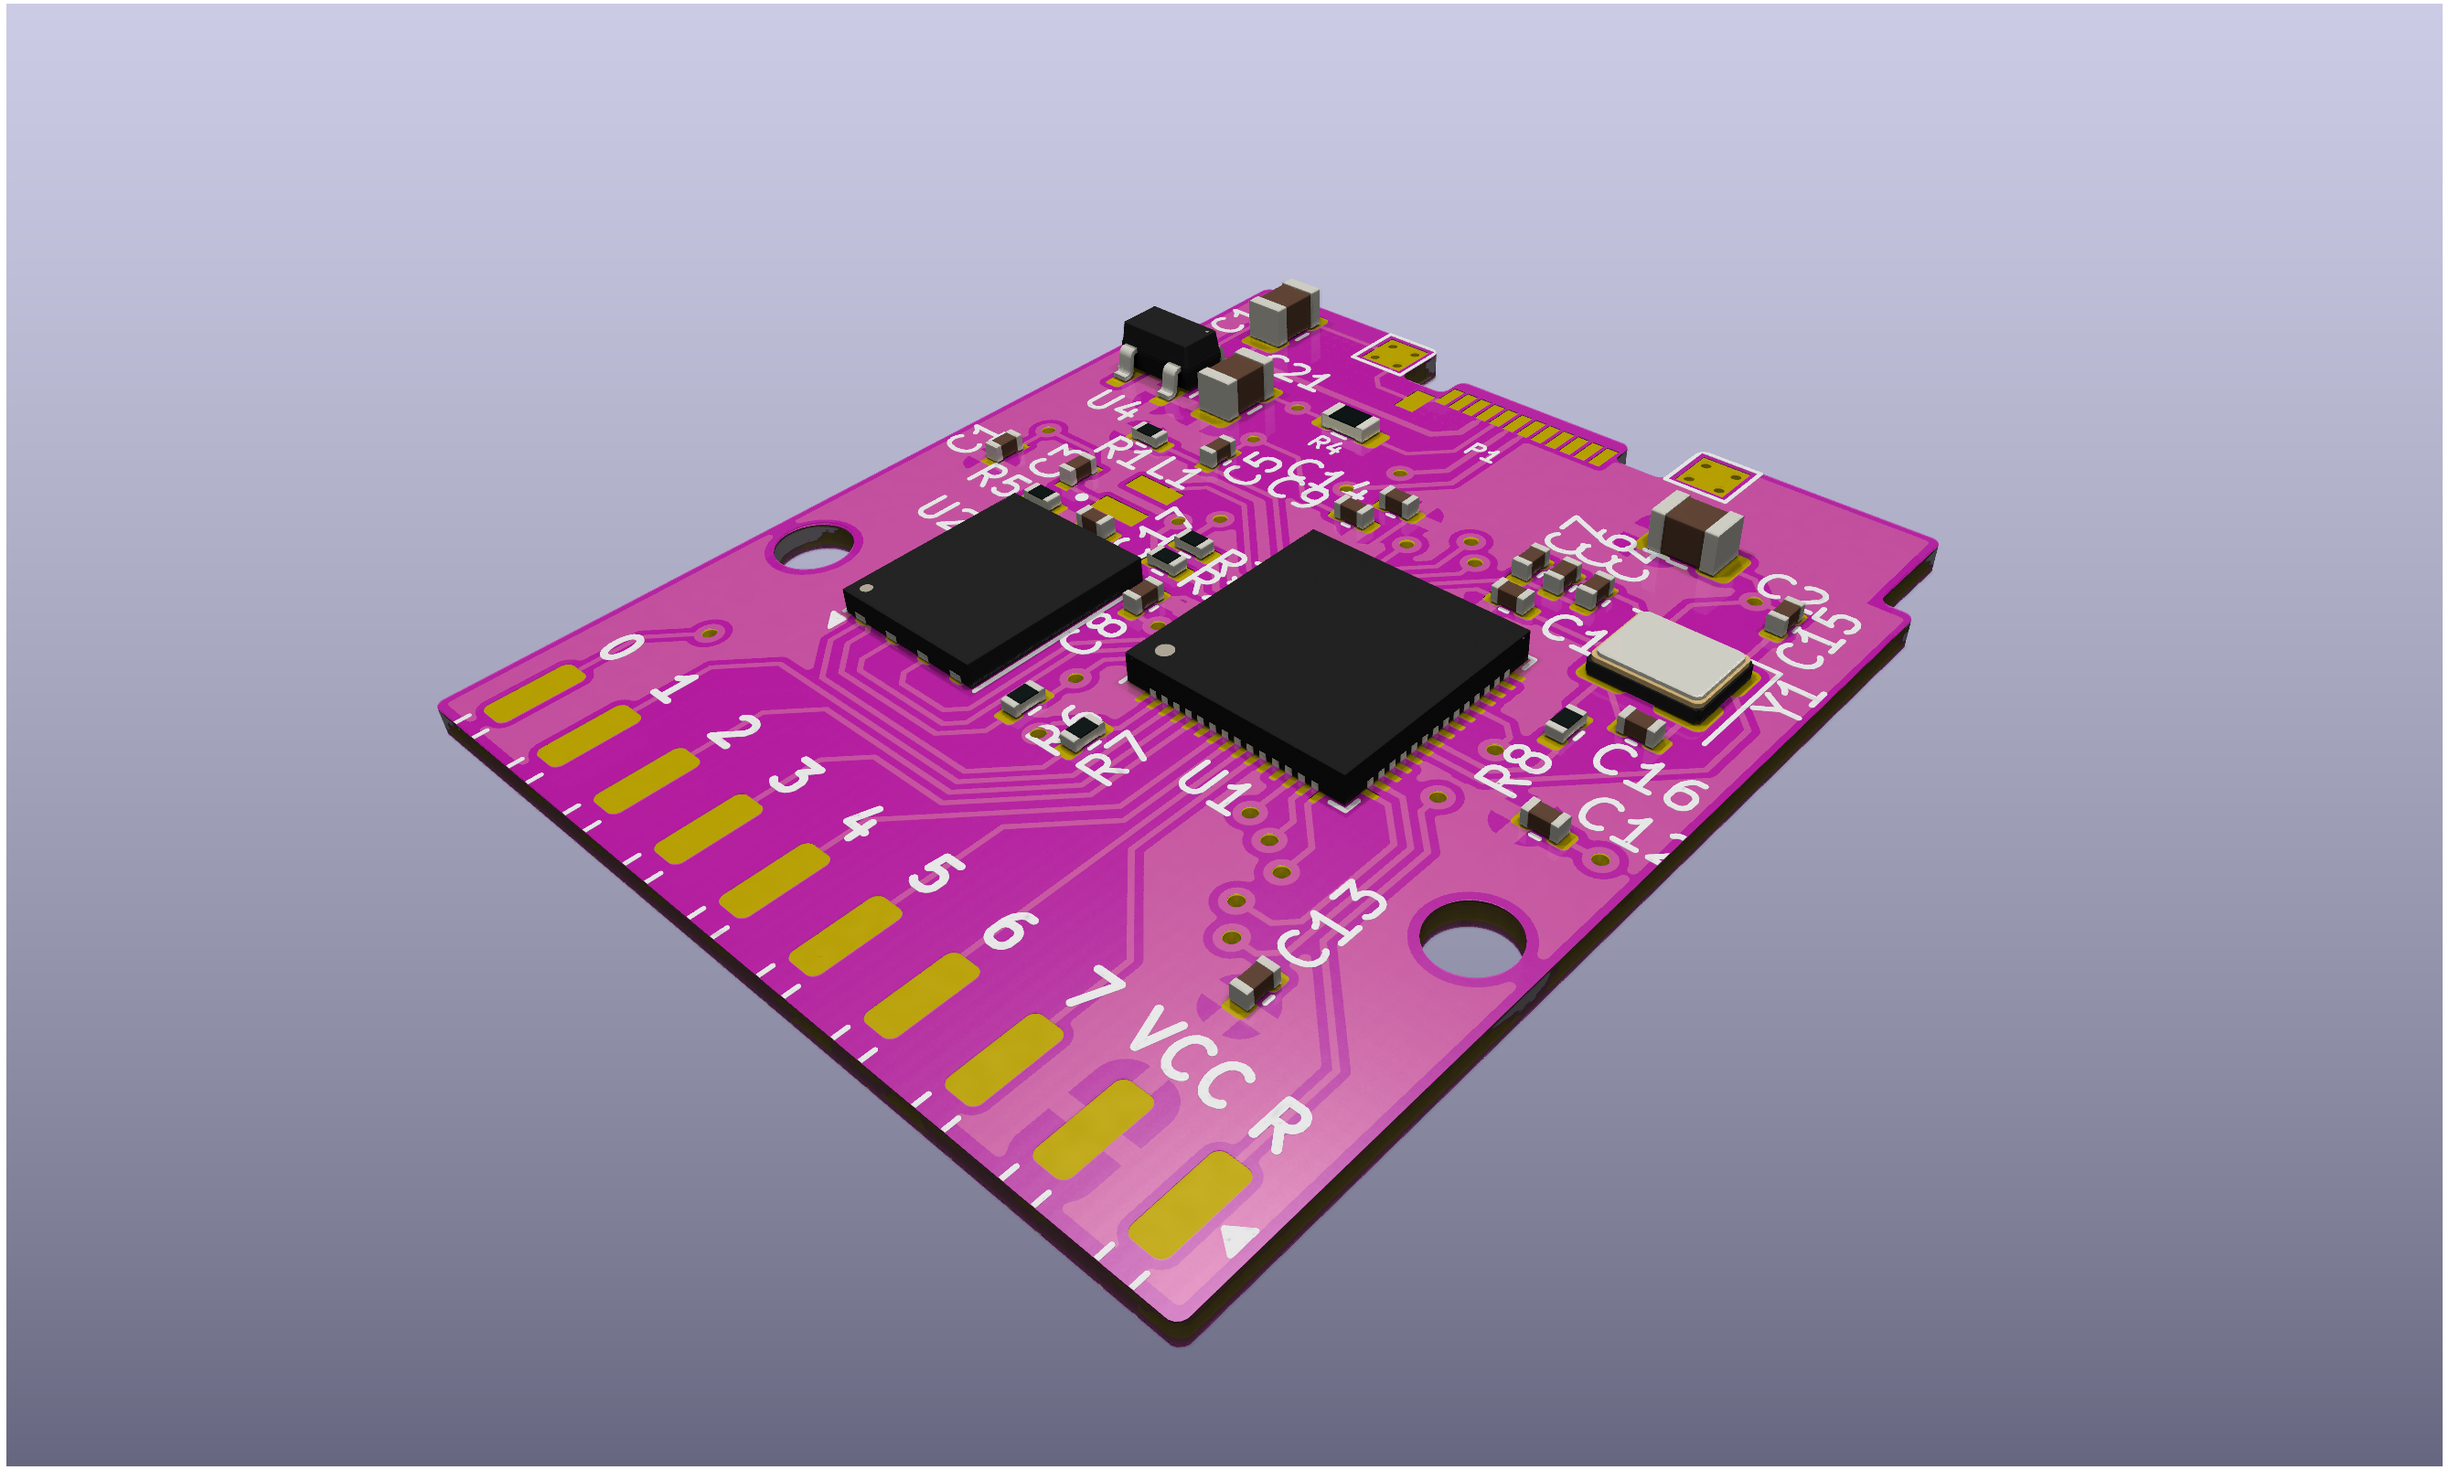
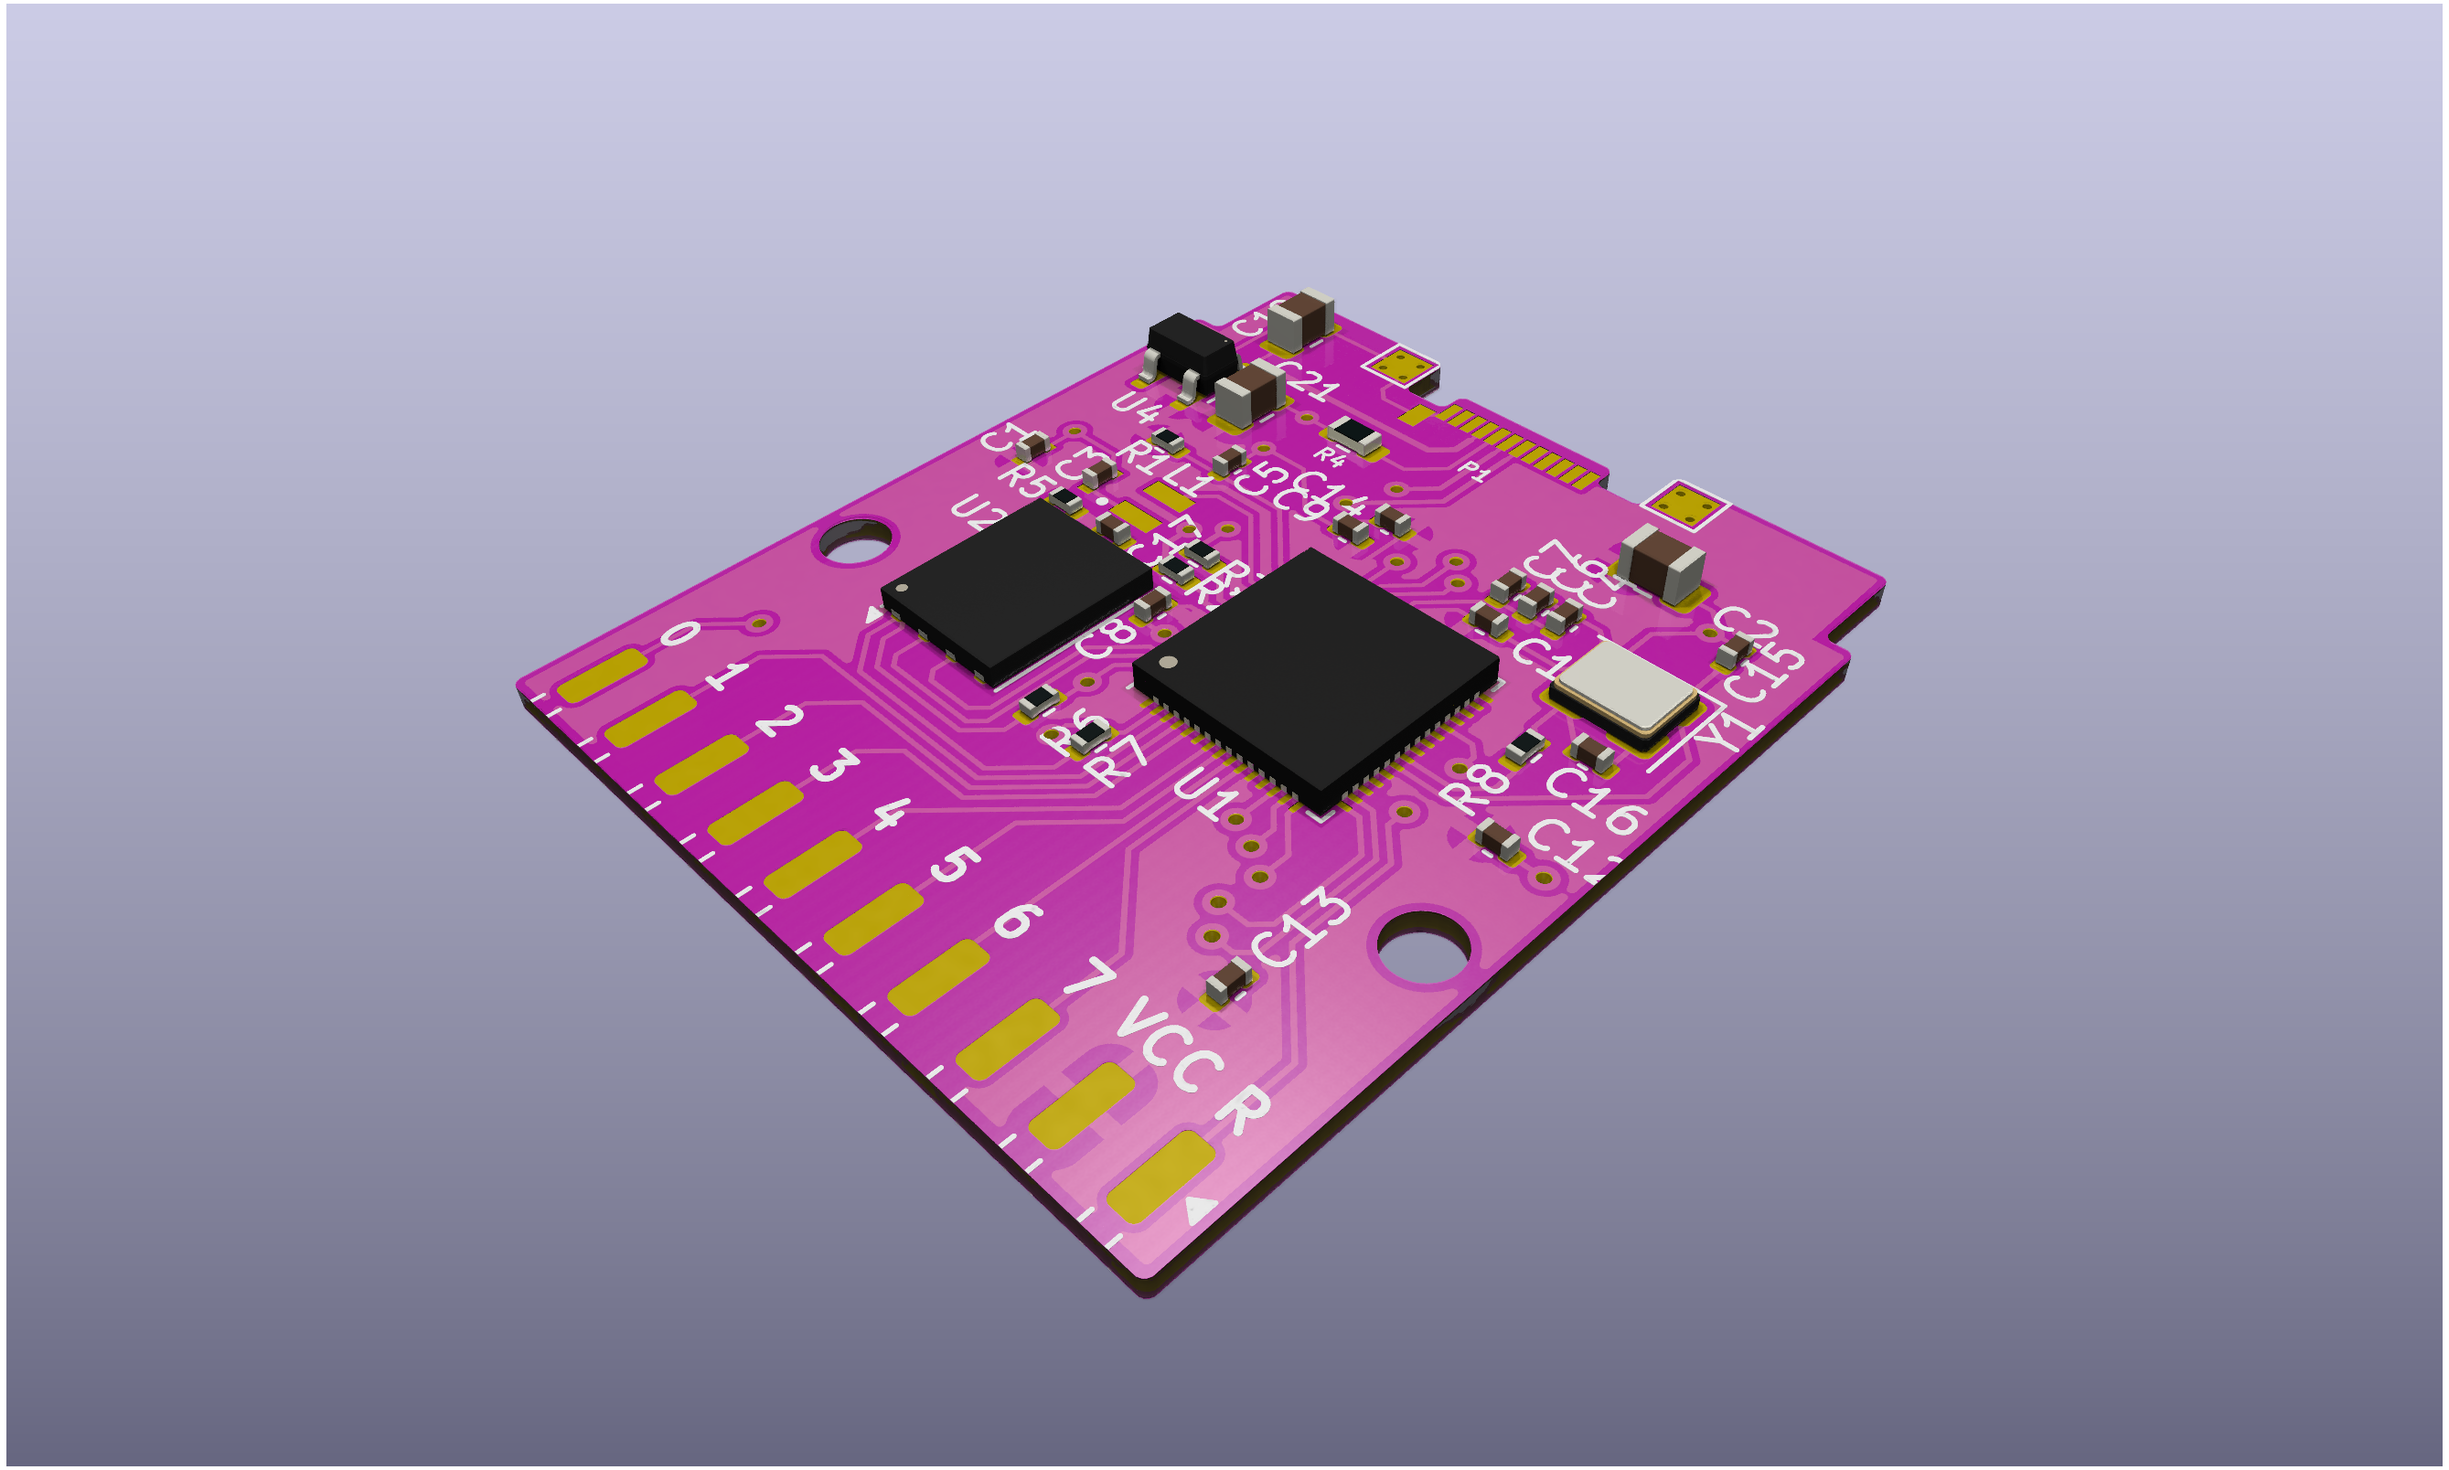
update photo

Changed region(s): [[0.155, 0.1866, 0.8058, 0.9328]]

diff --git a/README.md b/README.md
@@ -1,6 +1,6 @@
 # rp2350-gpio-card
 Expansion Card circuit based on RP2350 for Framework mainboards providing GPIO to the computer. Circuit is based on [Expansion Card template](https://github.com/FrameworkComputer/ExpansionCards) and [RP2350A Minimal board](https://datasheets.raspberrypi.com/rp2350/hardware-design-with-rp2350.pdf).
-![RP2350 GPIO Card prototype render](rp2350gpiocard-v121.png)
+![RP2350 GPIO Card prototype render](rp2350gpiocard-v122-front.png)
 
 # License
 Designed by: [Tan Siret Akıncı](https://github.com/tansiret).
